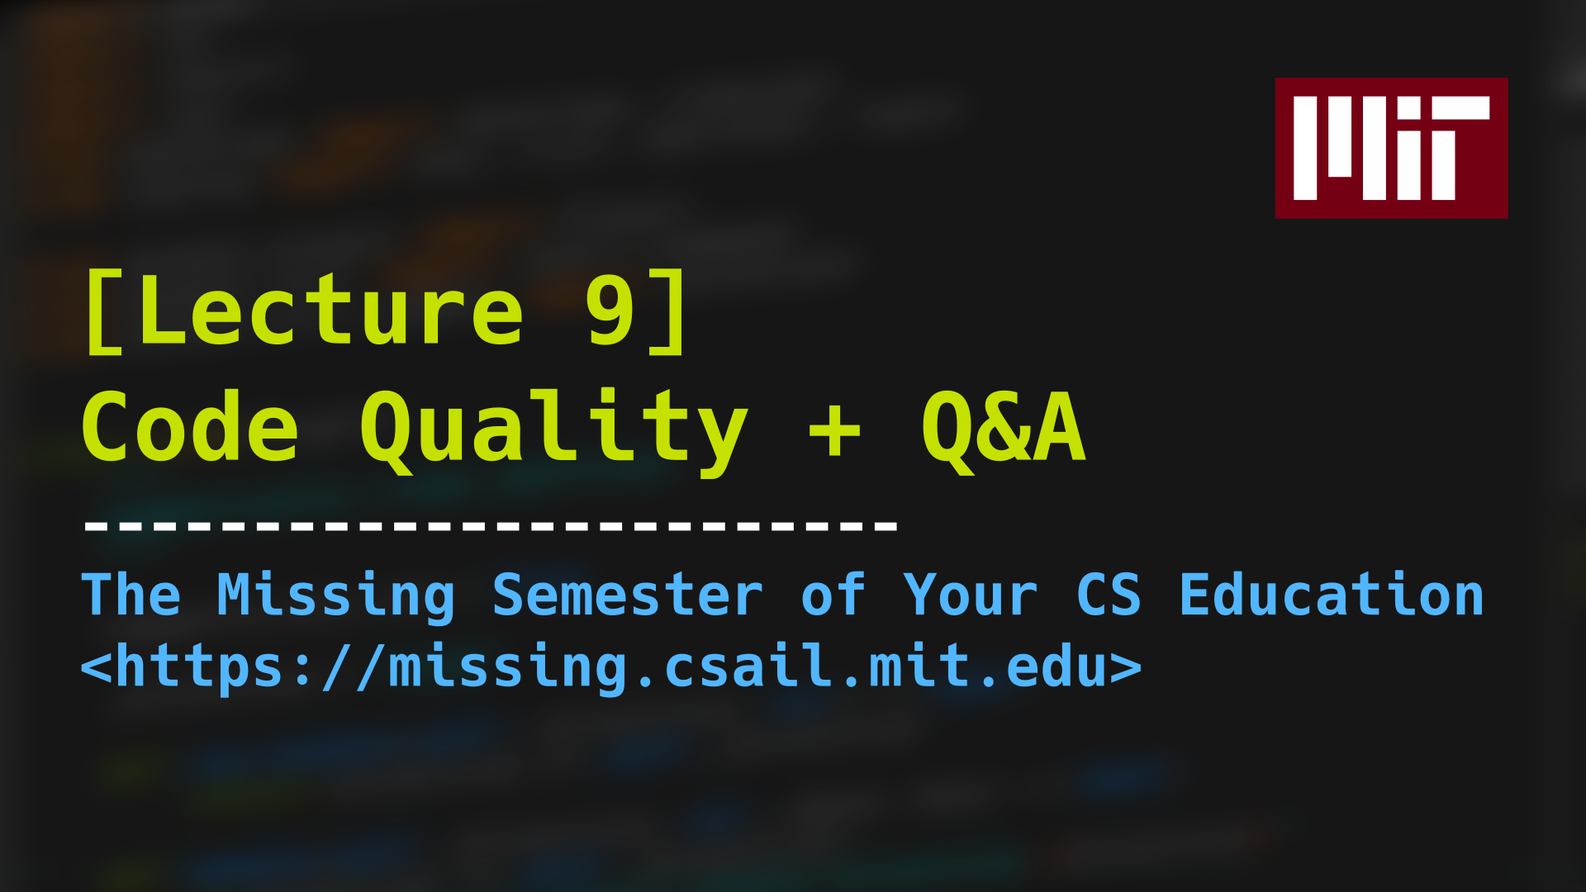
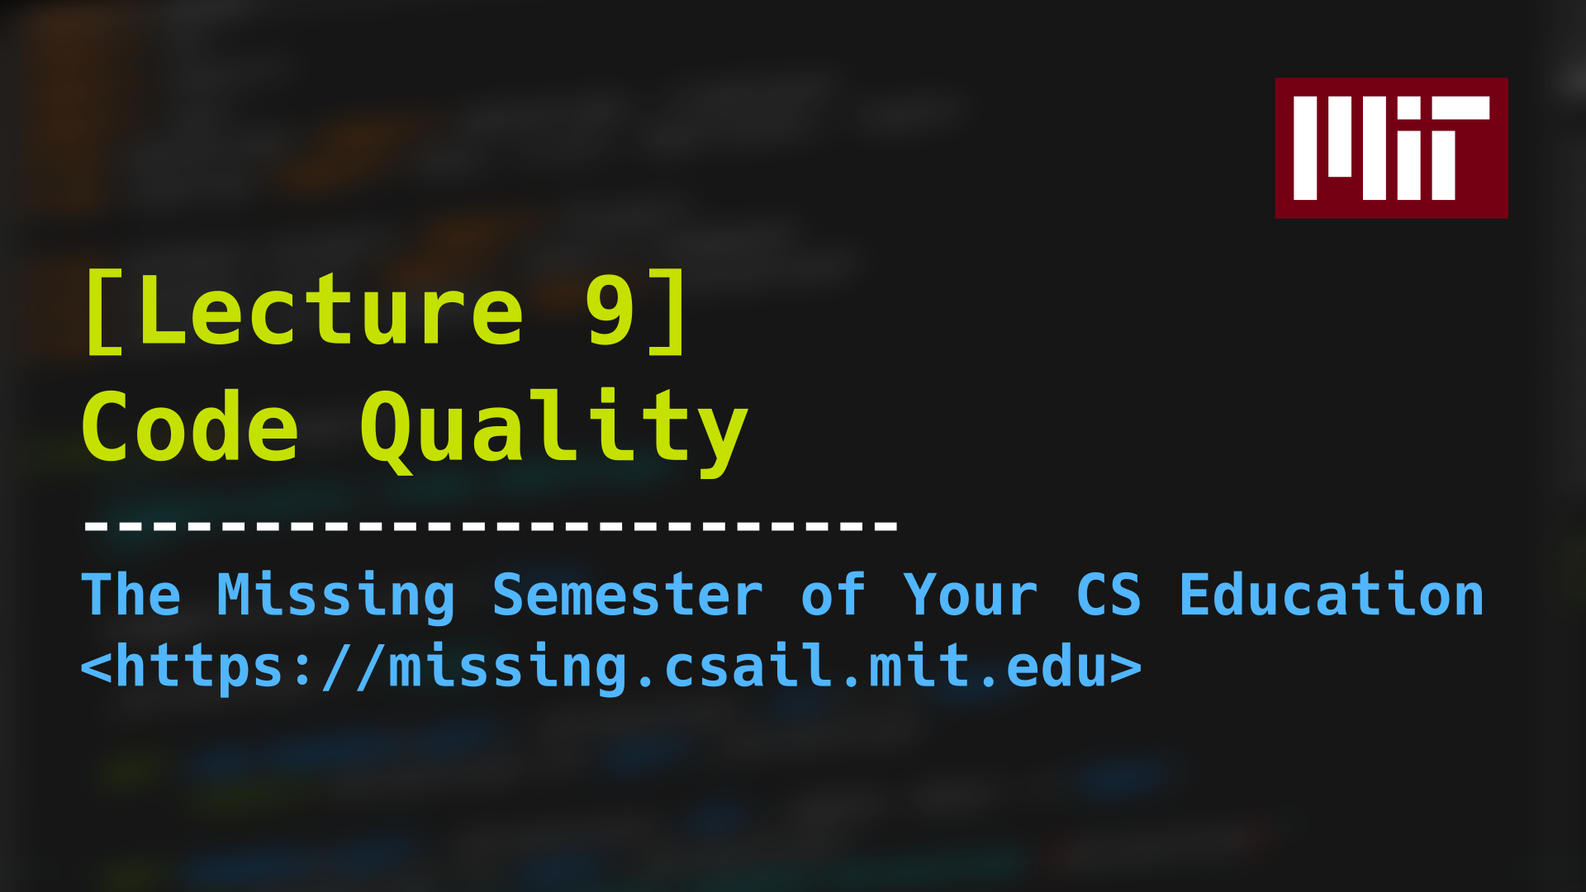
Add notes for code quality lecture

Changed region(s): [[0.5, 0.4278, 0.6875, 0.55]]

diff --git a/_2026/code-quality.md b/_2026/code-quality.md
@@ -1,0 +1,161 @@
+---
+layout: lecture
+title: "Code Quality"
+description: >
+  Learn about formatting, linting, testing, continuous integration, and more.
+thumbnail: /static/assets/thumbnails/2026/lec9.png
+date: 2026-01-23
+ready: true
+---
+
+There are a variety of tools and techniques that support developers in writing high-quality code. In this lecture, we'll cover:
+
+- [Formatting](#formatting)
+- [Linting](#linting)
+- [Testing](#testing)
+- [Pre-commit hooks](#pre-commit-hooks)
+- [Continuous integration](#continuous-integration)
+- [Command runners](#command-runners)
+
+As a bonus topic, we'll also cover [regular expressions](#regular-expressions), a cross-cutting topic that has applications in code quality (e.g., for running a subset of tests that match a pattern) as well as other domains like IDEs (e.g., for search and replace).
+
+Many of these tools will be language-specific (e.g., the [Ruff](https://docs.astral.sh/ruff/) linter/formatter for Python). In some cases, tools will support multiple languages (e.g., the [Prettier](https://prettier.io/) code formatter). The concepts, however, are near universal --- you can find code formatters, linters, testing libraries, and so on for any programming language.
+
+# Formatting
+
+Code auto-formatters automatically prettify surface syntax. This way, you can focus on the more deep and challenging problems, while the auto-formatting tool handles mundane details such as consistency of `'` versus `"` syntax for strings, having spaces surrounding binary operators (`x + y` instead of `x+y`), having `import` statements in sorted order, and avoiding over-length lines. One major benefit of code formatters is that they standardize code style across all developers working on a codebase.
+
+Some tools such as Prettier are [highly configurable](https://prettier.io/docs/configuration); you should check in the configuration file into [version control](/2026/version-control/) for your project. Other tools, such as [Black](https://github.com/psf/black) and [gofmt](https://pkg.go.dev/cmd/gofmt) have limited or no configurability, to reduce [bikeshedding](https://en.wikipedia.org/wiki/Law_of_triviality).
+
+You can set up [IDE integration](/2026/development-environment/#code-intelligence-and-language-servers) with your code formatter, so that your code will be auto-formatted as you type or when you save a file. You can also add an [EditorConfig](https://editorconfig.org/) file to your project, which communicates to your IDE certain project-level settings like indent size for each file type.
+
+# Linting
+
+Linters run static analysis (analyze your code without running it) to find antipatterns and potential issues in your code. These tools go deeper than autoformatters, looking beyond surface syntax. The level of depth of analysis varies by tool.
+
+Linters come equipped with lists of _rules_, with presets that can be configured on a project-level basis. Some linter rules produce false positives, so you can disable them on a per-file or per-line basis.
+
+Good linters will have built-in help or documentation that explains each linter rule --- what the rule is looking for, why it's bad, and what's a better alternative for the code pattern. For example, see the documentation for the [SIM102](https://docs.astral.sh/ruff/rules/collapsible-if/) rule in [Ruff](https://docs.astral.sh/ruff/) which catches unnecessarily nested `if` statements in Python code.
+
+Some linters can not only flag issues but also automatically fix certain issues for you.
+
+Aside from language-specific linters, another tool that might come in handy is [semgrep](https://github.com/semgrep/semgrep), a "semantic grep" tool that works at the AST level (rather than character level, like grep) and supports many languages. You can use semgrep to easily write custom linter rules for your projects. For example, if you wanted to prevent the dangerous `subprocess.Popen(..., shell=True)` in Python, you could find that code pattern with:
+
+```bash
+semgrep -l python -e "subprocess.Popen(..., shell=True, ...)"
+```
+
+# Testing
+
+Software testing is a standard technique to increase your confidence in the correctness of your code. You write code, and then you write code that exercises the code you wrote and raises an error if the code doesn't work as expected.
+
+You can write tests for chunks of code at different levels of granularity: _unit tests_ for individual functions, _integration tests_ for interaction between modules or services, and _functional tests_ for end-to-end scenarios. You can do _test-driven development_, where you write tests before you write any implementation code. When you find bugs in your code, you can write _regression tests_, so you'll catch if the functionality ever breaks in the future. You can write _property-based tests_, pioneered in [QuickCheck](https://hackage.haskell.org/package/QuickCheck) in Haskell, and implemented in many libraries, like [Hypothesis](https://hypothesis.readthedocs.io/) for Python.
+
+Which approach to testing is right depends on your project; likely, you will adopt some combination.
+
+## Code coverage
+
+Code coverage is a metric by which you can measure how good your tests are. Code coverage looks at which lines of your code are executed when your tests are run, so you can ensure you are covering all code paths. Code coverage tools can show you line-by-line coverage to guide you in writing tests. Services such as [Codecov](https://app.codecov.io) provide web interfaces for tracking and viewing code coverage over the history of a project.
+
+Like any metric, code coverage is not perfect; don't over-index on coverage, focus on writing high-quality tests.
+
+# Pre-commit hooks
+
+Git pre-commit [hooks](https://git-scm.com/book/en/v2/Customizing-Git-Git-Hooks), made easier by the [pre-commit](https://pre-commit.com/) framework, automatically run user-specified code prior to every Git commit. Projects commonly use pre-commit hooks to run formatters and linters, and sometimes tests, automatically before every commit, to ensure that committed code matches the project code style and is free of certain issues.
+
+# Continuous integration
+
+Continuous integration (CI) services like [GitHub Actions](https://github.com/features/actions) can run scripts for you every time you push code (or on every pull request, or on a schedule). Developers commonly use CI services to run code quality tools including formatters, linters, and tests. For compiled languages, you can ensure code compiles; for statically typed languages, you can make sure it type checks. Running CI every push of new commits can catch errors introduced into the main version of the code; running on pull requests can catch issues with contributor submissions; running on a schedule can catch issues with external dependencies (e.g., a developer accidentally releases a breaking change as [semver-compatible](/2026/shipping-code/#releases--versioning)).
+
+Because CI scripts run separately from developer machines, you can easily run long-running jobs there. This can be leveraged, for example, to run a _matrix_ of tests across different operating systems and programming language versions to ensure that the software works properly across all of them.
+
+Generally, the script running in CI will not directly make changes to your code: it will run tools in "check-only" mode rather than "fix" mode, so for example, the auto-formatter will raise an error when the code is not compliant with the format.
+
+Repositories often include [status badges](https://docs.github.com/en/actions/how-tos/monitor-workflows/add-a-status-badge) in their README, showing CI status and other information such as code coverage. For example, below is Missing Semester's current build status.
+
+[![Build Status](https://github.com/missing-semester/missing-semester/actions/workflows/build.yml/badge.svg)](https://github.com/missing-semester/missing-semester/actions/workflows/build.yml) [![Links Status](https://github.com/missing-semester/missing-semester/actions/workflows/links.yml/badge.svg)](https://github.com/missing-semester/missing-semester/actions/workflows/links.yml)
+
+> Our [links checker](https://github.com/missing-semester/missing-semester/blob/master/.github/workflows/links.yml), which uses the [proof-html](https://github.com/anishathalye/proof-html) GitHub Action is often failing, usually due to issues with third-party websites. Still, it has helped us catch and fix many broken links (sometimes due to typos, most of the time due to websites moving around content without adding redirects or websites disappearing).
+
+## Continuous deployment
+
+Continuous deployment makes use of CI infrastructure to actually _deploy_ changes. For example, the Missing Semester repository [uses](https://github.com/missing-semester/missing-semester/deployments/github-pages) continuous deployment to GitHub pages so that whenever we `git push` updated lecture notes, the site is automatically built and deployed. You can build other types of [artifacts](/2026/shipping-code/) in CI, such as binaries for applications or Docker images for services.
+
+# Command runners
+
+Command runners like [just](https://github.com/casey/just) simplify the task of running commands in the context of a project. As you build up code quality infrastructure for your project, you don't want to make your developers memorize commands like `uv run ruff check --fix`. With a command runner, this can turn into `just lint`, and you can have analogous invocations like `just format`, `just typecheck`, etc., for all the different tools a developer might want to run for your project.
+
+Some language-specific project or package managers have built-in support for such functionality, which means you don't need to use a language-agnostic tool like `just`. For example, the `scripts` section of a `package.json` for [npm](https://nodejs.org/en/learn/getting-started/an-introduction-to-the-npm-package-manager) (Node.js) and the `tool.hatch.envs.*.scripts` sections of a `pyproject.toml` for [Hatch](https://hatch.pypa.io/) (Python) support this functionality.
+
+# Regular expressions
+
+_Regular expressions_, commonly abbreviated as "regex", is a language used to represent sets of strings. Regex patterns are commonly used for pattern matching in various contexts such as command-line tools and IDEs. For example, [ag](https://github.com/ggreer/the_silver_searcher) supports regex patterns for codebase-wide search (e.g., `ag "import .* as .*"` will find all renamed imports in Python), and [go test](https://pkg.go.dev/cmd/go#hdr-Test_packages) supports a `-run [regexp]` option for selecting a subset of tests. Furthermore, programming languages have built-in support or third-party libraries for regular expression matching, so you can use regexes for functionality such as pattern matching, validation, and parsing.
+
+To help build intuition, below are some examples of regex patterns. In this lecture, we use [Python regex syntax](https://docs.python.org/3/library/re.html). There are many flavors of regex, with slight variation between them, especially in the more sophisticated functionality. You can use an online regex tester like [regex101](https://regex101.com/) to develop and debug regular expressions.
+
+- `abc` --- matches the literal "abc".
+- `missing|semester` --- matches the string "missing" or the string "semester".
+- `\d{4}-\d{2}-\d{2}` --- matches dates in YYYY-MM-DD format, such as "2026-01-14". Beyond ensuring that the string consists of four digits, a dash, two digits, a dash, and two digits, this does not validate the date, so "2026-01-99" matches this regex pattern too.
+- `.+@.+` --- matches email addresses, strings that contain some text, then an "@", and then some more text. This does only the most basic validation and matches strings like "nonsense@@@email". A regex that matches email addresses with no false positives or negatives [exists](https://pdw.ex-parrot.com/Mail-RFC822-Address.html) but is impractical.
+
+## Regex syntax
+
+You can find a comprehensive guide to regex syntax in [this documentation](https://docs.python.org/3/library/re.html#regular-expression-syntax) (or one of many other resources available online). Here are some of the basic building blocks:
+
+- `abc` matches the literal string, when the characters have no special meaning (in this example, "abc")
+- `.` matches any single character
+- `[abc]` matches a single character contained in the brackets (in this example, "a", "b", or "c")
+- `[^abc]` matches a single character except those contained in the brackets (e.g., "d")
+- `[a-f]` matches a single character contained in the range indicated in the brackets (e.g., "c", but not "q")
+- `a|b` matches either pattern (e.g., "a" or "b")
+- `\d` matches any digit character (e.g., "3")
+- `\w` matches any word character (e.g., "x")
+- `\b` matches any word _boundary_ (e.g., in the string "missing semester", matches just before the "m", just after the "g", just before the "s", and just after the "r")
+- `(...)` matches the group of a pattern
+- `...?` matches zero or one of a pattern, such as `words?` to match "word" or "words"
+- `...*` matches any number of a pattern, such as `.*` to match any number of any character
+- `...+` matches one or more of a pattern, such as `\d+` to match any non-zero number of digits
+- `...{N}` matches exactly N of a pattern, such as `\d{4}` for 4 digits
+- `\.` matches a literal "."
+- `\\` matches a literal "\\"
+- `^` matches the start of the line
+- `$` matches the end of the line
+
+## Capture groups and references
+
+If you use regex groups `(...)`, you can refer to sub-parts of the match for extraction or search-and-replace purposes. For example, to extract just the month from a YYYY-MM-DD style date, you can use the following Python code:
+
+```python
+>>> import re
+>>> re.match(r"\d{4}-(\d{2})-\d{2}", "2026-01-14").group(1)
+'01'
+```
+
+In your text editor, you can use reference capture groups in replace patterns. The syntax might vary between IDEs. For example, in VS Code, you can use variables like `$1`, `$2`, etc., and in Vim, you can use `\1`, `\2`, etc., to reference groups.
+
+## Limitations
+
+[Regular languages](https://en.wikipedia.org/wiki/Regular_language) are powerful but limited; there are classes of strings that cannot be expressed as a standard regex (e.g., it is [not possible](https://en.wikipedia.org/wiki/Pumping_lemma_for_regular_languages) to write a regular expression that matches the set of strings {a^n b^n \| n &ge; 0}, the set of strings of a number of "a"s followed by the same number of "b"s; more practically, languages like HTML are not regular languages). In practice, modern regex engines support features like lookahead and backreferences that extend support beyond regular languages, and they are practically extremely useful, but it is important to know that they are still limited in their expressive power. For more sophisticated languages, you might need to reach for a more capable type of parser (for one example, see [pyparsing](https://github.com/pyparsing/pyparsing), a [PEG](https://en.wikipedia.org/wiki/Parsing_expression_grammar) parser).
+
+## Learning regex
+
+We recommend learning the fundamentals (what we have covered in this lecture), and then looking at regex references as you need them, rather than memorizing the entirety of the language.
+
+Conversational AI tools can be effective at helping you generating regex patterns. For example, try prompting your favorite LLM with the following query:
+
+```
+Write a Python-style regex pattern that matches the requested path from log lines from Nginx. Here is an example log line:
+
+169.254.1.1 - - [09/Jan/2026:21:28:51 +0000] "GET /feed.xml HTTP/2.0" 200 2995 "-" "python-requests/2.32.3"
+```
+
+# Exercises
+
+1. Configure a formatter, linter, and pre-commit hooks for a project you're working on. If you have lots of errors: autoformatting should take care of the format errors. For the linter errors, try using an [AI agent](/2026/agentic-coding/) to fix all the linter errors. Make sure the AI agent can run the linter and observe the results, so that it can run in an iterative loop to fix all the issues. Check the results carefully to ensure the AI doesn't break your code!
+1. Learn a testing library for a language you know and write a unit test for a project you're working on. Run a code coverage tool, generate an HTML-formatted coverage report, and observe the results. Can you find the lines that are covered? Your code coverage will likely be very low. Try manually writing some tests to improve it. Try using an [AI agent](/2026/agentic-coding/) to improve coverage; make sure the coding agent can run tests with coverage and produce a line-by-line coverage report, so it knows where to focus. Are the AI-generated tests actually good?
+1. Set up continuous integration to run on every push for a project you're working on. Have CI run formatting, linting, and tests. Break your code on purpose (e.g., introduce a linter violation), and ensure that CI catches it.
+1. Try writing a [regex pattern](#regular-expressions) and use the `grep` [command-line tool](/2026/course-shell/) to find occurrences of `subprocess.Popen(..., shell=True)` in your code. Now, try to "break" the regex pattern. Does [semgrep](#linting) still successfully match the dangerous code that trips up your grep invocation?
+1. Practice regex search-and-replace in your IDE or text editor by replacing the `-` [Markdown bullet markers](https://spec.commonmark.org/0.31.2/#bullet-list-marker) with `*` bullet markers in [these lecture notes](https://raw.githubusercontent.com/missing-semester/missing-semester/refs/heads/master/_2026/code-quality.md). Note that just replacing all the "-" characters in the file would be incorrect, as there are many uses of that character that are not bullet markers.
+1. Write a regex to capture from JSON structures of the form `{"name": "Alyssa P. Hacker", "college": "MIT"}` the name (e.g., `Alyssa P. Hacker`, in this example). Hint: in your first attempt, you might end up writing a regex that extracts `Alyssa P. Hacker", "college": "MIT`; read about greedy quantifiers in the [Python regex docs](https://docs.python.org/3/library/re.html) to figure out how to fix it.
+    1. Make the regex pattern work even in situations where the name has a `"` character in it (double quotes can be escaped in JSON with `\"`).
+    1. We do **not** recommend using regular expressions for sophisticated parsing problems in practice. Figure out how to use your programming language's JSON parser for this task. Write a command-line program that takes as input, on stdin, a JSON structure of the form described above, and output, on stdout, the name. You should only need a couple lines of code to do this. In Python, you can do it easily in one line of code beyond `import json`.

diff --git a/_2026/agentic-coding.md b/_2026/agentic-coding.md
@@ -181,5 +181,5 @@ Many IDEs / AI coding extensions include coding agents (see recommendations from
 1. Use an AI coding agent to navigate an unfamiliar codebase. This is best done in the context of wanting to debug or add a new feature to a project you actually care about. If you don't have any that come to mind, try using an AI agent to understand how security-related features work in the [opencode](https://github.com/anomalyco/opencode) agent.
 1. Vibe code a small app from scratch. Do not write a single line of code by hand.
 1. For your coding agent of choice, create and test an `AGENTS.md` (or analogous for your agent of choice, such as `CLAUDE.md`), a reusable prompt (e.g., [custom slash command in Claude Code](https://code.claude.com/docs/en/slash-commands#custom-slash-commands) or [custom prompts in Codex](https://developers.openai.com/codex/custom-prompts)), a skill (e.g., [skill in Claude Code](https://code.claude.com/docs/en/skills) or [skill in Codex](https://developers.openai.com/codex/skills/)), and a subagent (e.g., [subagent in Claude Code](https://code.claude.com/docs/en/sub-agents)). Think about when you'd want to use one of these versus another. Note that your coding agent of choice might not support some of these functionalities; you can either skip them, or try a different coding agent that has support.
-1. Use a coding agent to accomplish the same goal as in the Markdown bullet points regex exercise from the [Code Quality lecture](/2026/code-quality-plus-qa/). Does it complete the tasks via direct file edits? What are the downsides and limitations of an agent editing the file directly to complete such a task? Figure out how to prompt the agent such that it doesn't complete the task via direct file edits. Hint: ask the agent to use one of the command-line tools mentioned in the [first lecture](/2026/course-shell/).
+1. Use a coding agent to accomplish the same goal as in the Markdown bullet points regex exercise from the [Code Quality lecture](/2026/code-quality/). Does it complete the tasks via direct file edits? What are the downsides and limitations of an agent editing the file directly to complete such a task? Figure out how to prompt the agent such that it doesn't complete the task via direct file edits. Hint: ask the agent to use one of the command-line tools mentioned in the [first lecture](/2026/course-shell/).
 1. Most coding agents support a form of "yolo mode" (e.g., in Claude Code, `--dangerously-skip-permissions`). It is not secure to use this mode directly, but it may be acceptable to run a coding agent in an isolated environment like a virtual machine or container and then enable autonomous operation. Get this setup running on your machine. Documentation such as [Claude Code devcontainers](https://code.claude.com/docs/en/devcontainer) or [Docker Sandboxes / Claude Code](https://docs.docker.com/ai/sandboxes/claude-code/) may come in handy. There is more than one way to set this up.

diff --git a/_2026/shipping-code.md b/_2026/shipping-code.md
@@ -380,7 +380,7 @@ For projects requiring maximum reproducibility, tools like [Nix](https://nixos.o
 > You can even use NixOS to manage your entire computer install so that you can trivially spin up new copies of your computer setup and manage their complete configuration through version-controlled configuration files.
 
 A neverending tension in software development is that new software versions introduce breakage either intentionally or unintentionally, while on the other hand, old software versions become compromised with security vulnerabilities over time.
-We can address this by using continuous integration pipelines (we'll see more in the [Code Quality and CI](/2026/code-quality-plus-qa/) lecture) that test our application against new software versions and having automation in place for detecting when new versions of our dependencies are released, such as [Dependabot](https://github.com/dependabot).
+We can address this by using continuous integration pipelines (we'll see more in the [Code Quality and CI](/2026/code-quality/) lecture) that test our application against new software versions and having automation in place for detecting when new versions of our dependencies are released, such as [Dependabot](https://github.com/dependabot).
 
 Even with CI testing in place, issues still occur when upgrading software versions, often because of the inevitable mismatch between dev and prod environments.
 In those circumstances the best course of action is to have a _rollback_ plan, where the version upgrade is reverted and a known good version is redeployed instead.

diff --git a/_2026/development-environment.md b/_2026/development-environment.md
@@ -190,7 +190,7 @@ IDEs generally offer language-specific support that requires semantic understand
 - **Jump-to-definition.** Jumping from a use site to the definition, such as being able to go from a field reference `object.field` to the definition of the field.
 - **Find references.** The inverse of the above, find all sites where a particular item such as a field or type is referenced.
 - **Help with imports.** Organizing imports, removing unused imports, flagging missing imports.
-- **Code quality.** These tools can be used standalone, but this functionality is often provided by language servers as well. Code formatting auto-indents and auto-formats code, and type checkers and linters find errors in your code, as you type. We will cover this class of functionality in greater depth in the [lecture on code quality](/2026/code-quality-plus-qa/).
+- **Code quality.** These tools can be used standalone, but this functionality is often provided by language servers as well. Code formatting auto-indents and auto-formats code, and type checkers and linters find errors in your code, as you type. We will cover this class of functionality in greater depth in the [lecture on code quality](/2026/code-quality/).
 
 ## Configuring language servers
 

diff --git a/_2026/course-shell.md b/_2026/course-shell.md
@@ -147,7 +147,7 @@ Knowing your way around a shell is also very useful to navigate the
 world of open-source software (which often come with install
 instructions that require the shell), building continuous integration
 for your software projects (as described in the [Code Quality
-lecture](/2026/code-quality-plus-qa/)), and debugging errors when other programs
+lecture](/2026/code-quality/)), and debugging errors when other programs
 fail.
 
 ## Navigating in the shell
